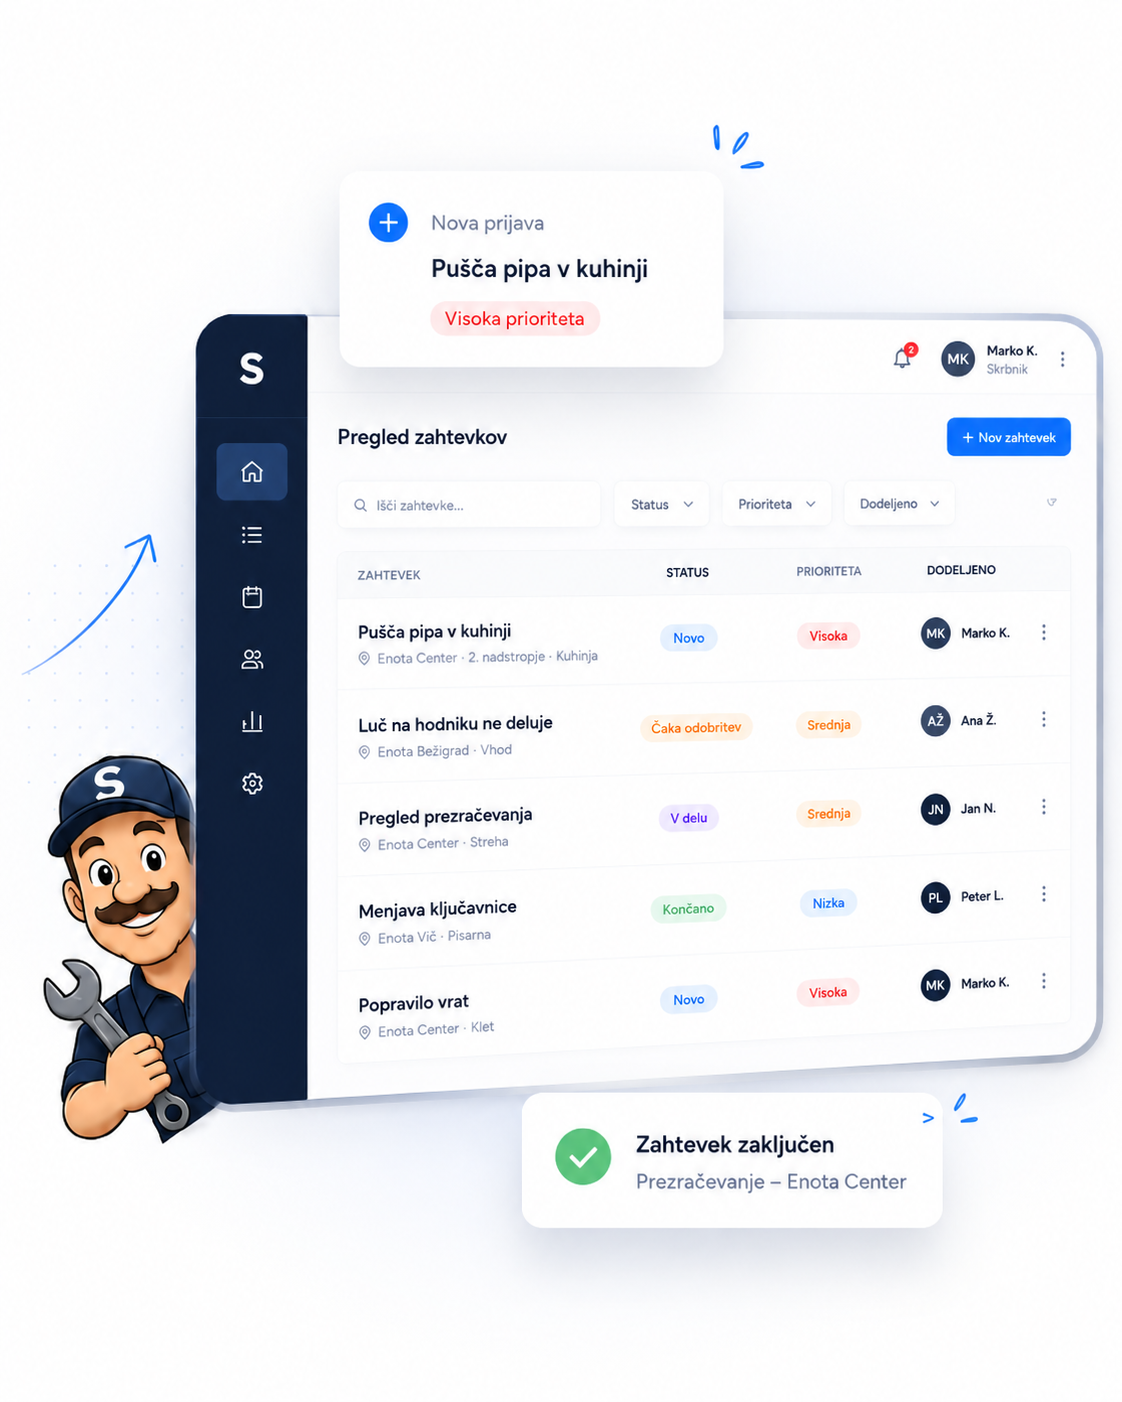
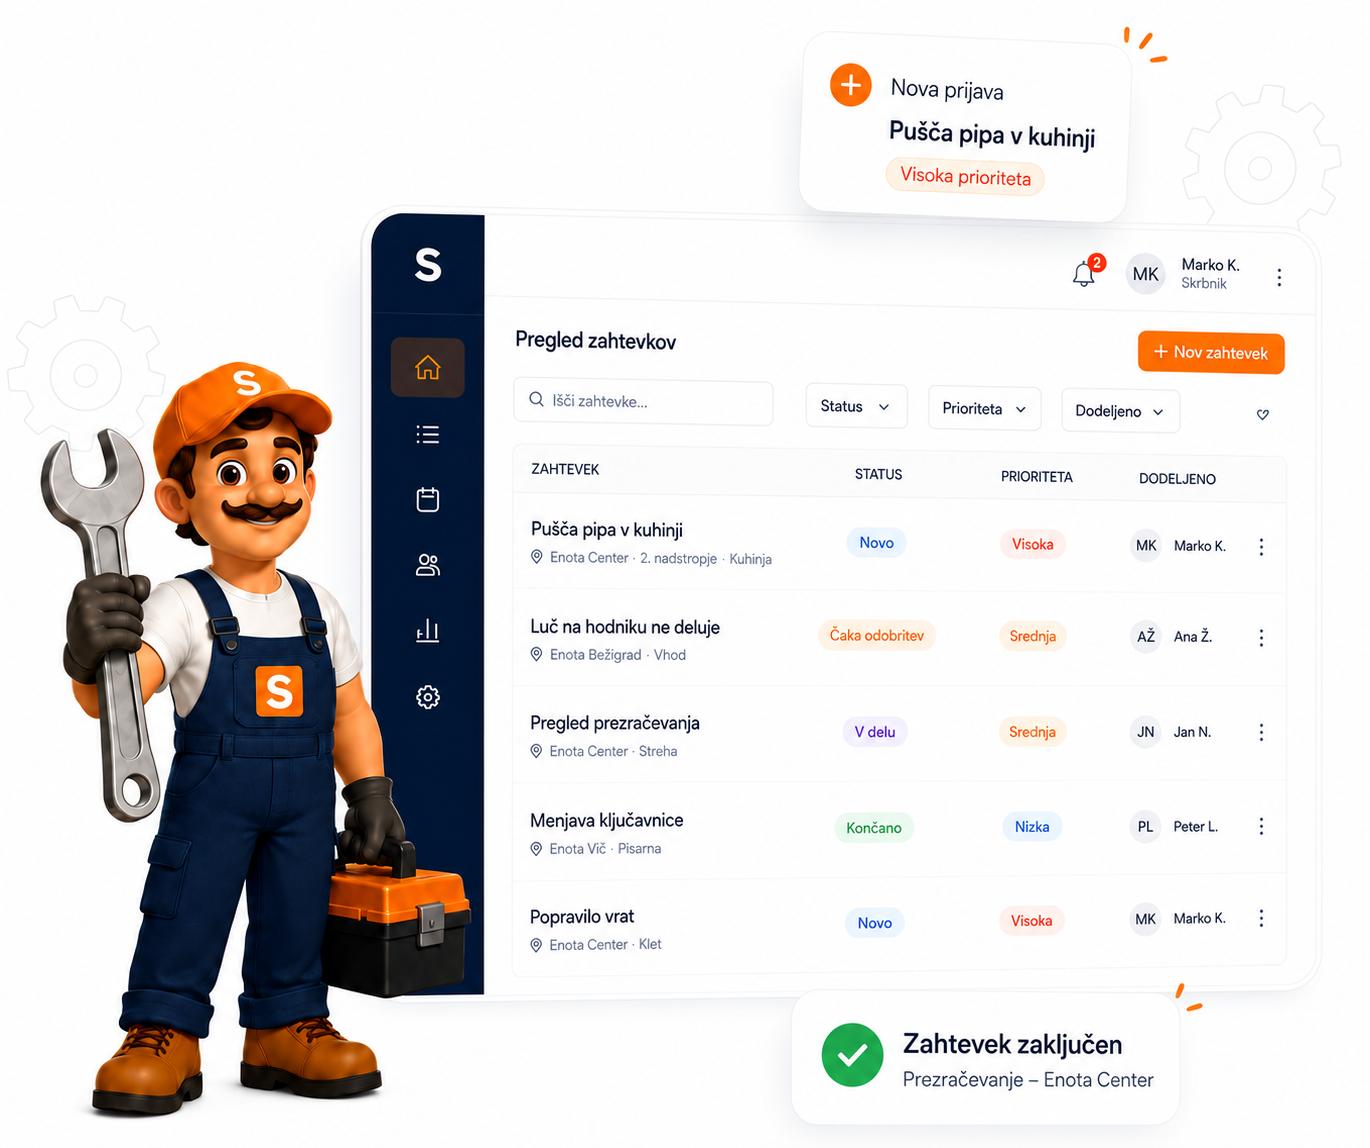
rebranded to orange accent

diff --git a/app/routes/home.tsx b/app/routes/home.tsx
@@ -37,13 +37,22 @@ export default function HomePage() {
 				<section
 					id="funkcionalnosti"
 					aria-labelledby="hero-heading"
-					className="mx-auto max-w-screen-2xl scroll-mt-24 px-4 pt-6 pb-20 sm:px-6 sm:pt-8 lg:px-12 lg:pt-8 lg:pb-28"
+					className="relative mx-auto max-w-screen-2xl scroll-mt-24 overflow-hidden px-4 pt-6 pb-20 sm:px-6 sm:pt-8 lg:px-12 lg:pt-8 lg:pb-28"
 				>
-					<div className="grid items-center gap-12 lg:grid-cols-2 lg:gap-24">
+					<div
+						className="pointer-events-none absolute top-16 right-[8%] hidden size-28 rounded-full bg-brand/10 blur-3xl sm:block"
+						aria-hidden="true"
+					/>
+					<div
+						className="pointer-events-none absolute bottom-24 left-[42%] hidden size-40 rounded-full bg-brand/[0.07] blur-3xl lg:block"
+						aria-hidden="true"
+					/>
+
+					<div className="relative grid items-center gap-12 lg:grid-cols-2 lg:gap-24">
 						<div>
-							<div className="mb-6 inline-flex items-center gap-2 rounded-md border border-border bg-white/80 px-4 py-2 shadow-sm backdrop-blur-sm">
+							<div className="mb-6 inline-flex items-center gap-2 rounded-md border border-brand/20 bg-brand/5 px-4 py-2">
 								<Settings
-									className="size-4 text-foreground"
+									className="size-4 text-brand"
 									strokeWidth={2}
 									aria-hidden="true"
 								/>
@@ -56,7 +65,8 @@ export default function HomePage() {
 								id="hero-heading"
 								className="text-[3rem] leading-[1.04] font-bold tracking-[-0.03em] text-balance text-foreground sm:text-6xl lg:text-[4.25rem] lg:leading-[1.05] xl:text-7xl"
 							>
-								Vse vzdrževanje na enem mestu.
+								Vse vzdrževanje{" "}
+								<span className="text-brand">na enem mestu.</span>
 							</h1>
 
 							<p className="mt-5 max-w-2xl text-xl leading-8 text-muted-foreground sm:mt-6 sm:text-[1.375rem] sm:leading-9 lg:text-2xl lg:leading-10">
@@ -81,18 +91,28 @@ export default function HomePage() {
 										key={item.label}
 										className="flex items-center gap-2.5 text-base text-foreground sm:text-lg"
 									>
-										<item.icon
-											className="size-5 text-foreground"
-											strokeWidth={1.75}
-											aria-hidden="true"
-										/>
+										<span className="flex size-8 items-center justify-center rounded-md bg-brand/10">
+											<item.icon
+												className="size-4 text-brand"
+												strokeWidth={2}
+												aria-hidden="true"
+											/>
+										</span>
 										{item.label}
 									</li>
 								))}
 							</ul>
 						</div>
 
-						<div className="w-full">
+						<div className="relative w-full">
+							<div
+								className="pointer-events-none absolute -top-3 -right-2 size-3 rotate-45 bg-brand sm:-top-4 sm:-right-3 sm:size-3.5"
+								aria-hidden="true"
+							/>
+							<div
+								className="pointer-events-none absolute top-1/3 -left-2 size-2 rotate-45 bg-brand/80 sm:-left-3"
+								aria-hidden="true"
+							/>
 							<img
 								src={demoScreenshot}
 								alt="Predogled nadzorne plošče Servisnik"

diff --git a/app/app.css b/app/app.css
@@ -8,6 +8,8 @@
 	--font-sans:
 		"Inter", ui-sans-serif, system-ui, sans-serif, "Apple Color Emoji",
 		"Segoe UI Emoji", "Segoe UI Symbol", "Noto Color Emoji";
+	--color-brand: var(--brand);
+	--color-brand-foreground: var(--brand-foreground);
 	--color-button: #0f172a;
 	--color-surface: var(--card);
 	--color-surface-strong: var(--button);
@@ -55,19 +57,21 @@
 :root {
 	--radius: 0.625rem;
 	--background: #f6f8fa;
-	--foreground: #0f172a;
+	--foreground: #0b132b;
+	--brand: #ff6b00;
+	--brand-foreground: #ffffff;
 	--card: #f1f5f9;
-	--card-foreground: #0f172a;
+	--card-foreground: #0b132b;
 	--popover: #ffffff;
-	--popover-foreground: #0f172a;
-	--primary: #000000;
+	--popover-foreground: #0b132b;
+	--primary: #0b132b;
 	--primary-foreground: #ffffff;
 	--secondary: #ffffff;
-	--secondary-foreground: #0f172a;
+	--secondary-foreground: #0b132b;
 	--muted: #f1f5f9;
 	--muted-foreground: #64748b;
 	--accent: #f1f5f9;
-	--accent-foreground: #0f172a;
+	--accent-foreground: #0b132b;
 	--destructive: oklch(0.577 0.245 27.325);
 	--border: #e2e8f0;
 	--input: #e2e8f0;
@@ -78,11 +82,11 @@
 	--chart-4: oklch(0.828 0.189 84.429);
 	--chart-5: oklch(0.769 0.188 70.08);
 	--sidebar: #f6f8fa;
-	--sidebar-foreground: #0f172a;
-	--sidebar-primary: #000000;
+	--sidebar-foreground: #0b132b;
+	--sidebar-primary: #ff6b00;
 	--sidebar-primary-foreground: #ffffff;
 	--sidebar-accent: #f1f5f9;
-	--sidebar-accent-foreground: #0f172a;
+	--sidebar-accent-foreground: #0b132b;
 	--sidebar-border: #e2e8f0;
 	--sidebar-ring: #94a3b8;
 }
@@ -90,6 +94,8 @@
 .dark {
 	--background: #0f172a;
 	--foreground: #ffffff;
+	--brand: #ff6b00;
+	--brand-foreground: #ffffff;
 	--card: #1e293b;
 	--card-foreground: #ffffff;
 	--popover: #1e293b;

diff --git a/app/components/footer.tsx b/app/components/footer.tsx
@@ -77,9 +77,9 @@ export function Footer({ user }: FooterProps) {
 
 					<div>
 						<p className="font-mono text-xs font-medium tracking-[0.18em] text-background/45 uppercase">
-							Začni
-						</p>
-					</div>
+								Začni
+							</p>
+						</div>
 				</div>
 
 				<div className="mt-12 flex flex-col gap-3 border-t border-white/10 pt-8 sm:flex-row sm:items-center sm:justify-between">

diff --git a/app/components/navbar.tsx b/app/components/navbar.tsx
@@ -220,8 +220,7 @@ function LandingActions({
 				<Profile user={user} />
 			) : (
 				<Button
-					variant="outline"
-					className="inline-flex h-auto min-h-12 items-center justify-center rounded-md border-foreground bg-white px-8 py-3.5 text-sm font-medium leading-none text-foreground hover:bg-white hover:text-foreground"
+					className="inline-flex h-auto min-h-12 items-center justify-center rounded-md bg-brand px-8 py-3.5 text-sm font-medium leading-none text-brand-foreground hover:bg-brand/90"
 					render={<Link to="/login" />}
 					onClick={onNavigate}
 				>